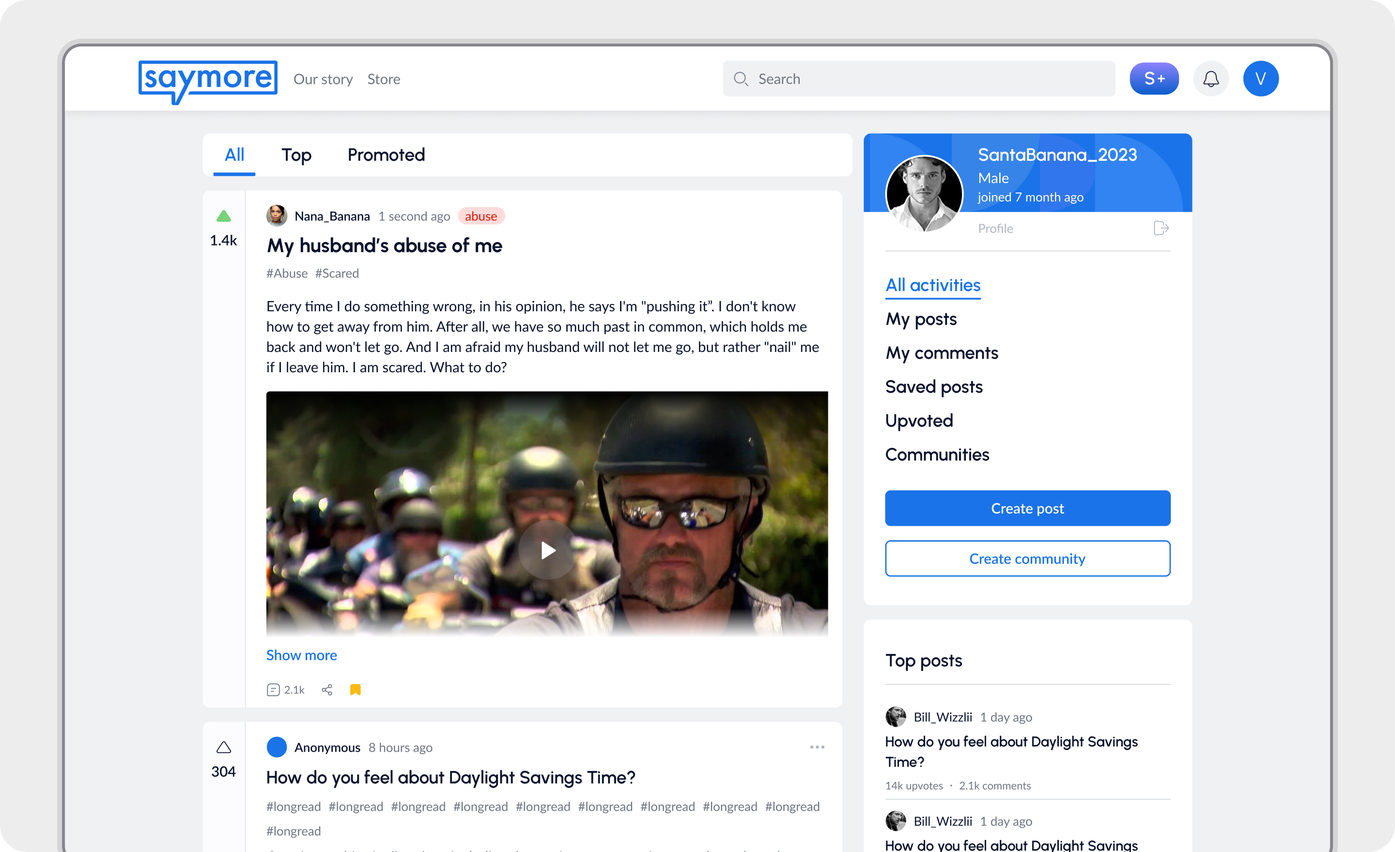
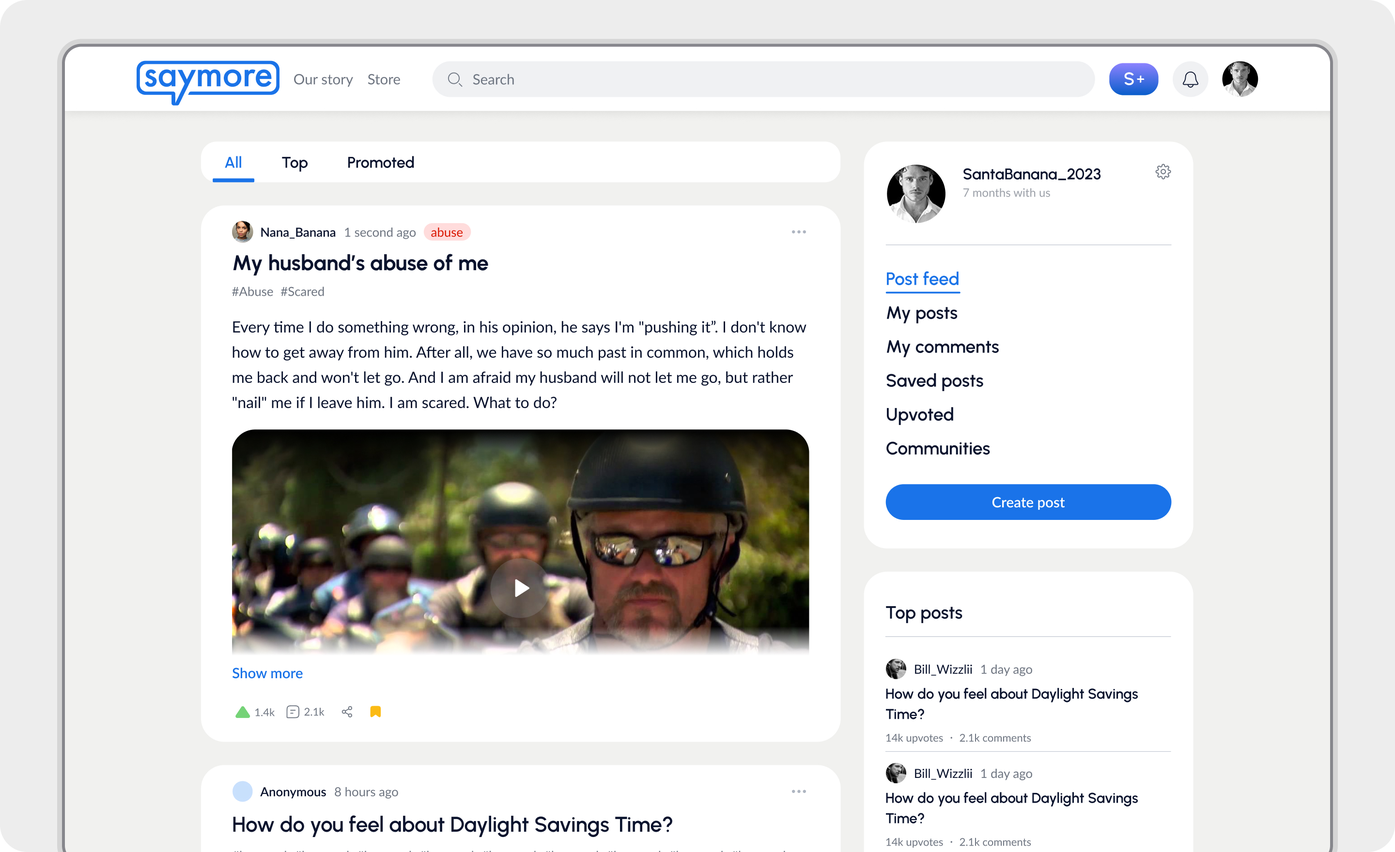
Move lang toggle to header, translate main page to Russian, add sliders for refs/moodboards

diff --git a/index.html b/index.html
@@ -22,6 +22,10 @@
       <svg id="iconSun" width="18" height="18" viewBox="0 0 24 24" fill="none" stroke="currentColor" stroke-width="1.8" stroke-linecap="round"><circle cx="12" cy="12" r="4"/><path d="M12 2v2M12 20v2M4.9 4.9l1.4 1.4M17.7 17.7l1.4 1.4M2 12h2M20 12h2M4.9 19.1l1.4-1.4M17.7 6.3l1.4-1.4"/></svg>
       <svg id="iconMoon" width="18" height="18" viewBox="0 0 24 24" fill="none" stroke="currentColor" stroke-width="1.8" stroke-linecap="round" style="display:none"><path d="M21 12.8A9 9 0 1 1 11.2 3 7 7 0 0 0 21 12.8z"/></svg>
     </button>
+    <div class="lang-toggle" id="langToggle">
+      <button data-lang="ru" class="on" aria-label="Русский">RU</button>
+      <button data-lang="en" aria-label="English">EN</button>
+    </div>
   </div>
 </header>
 
@@ -29,66 +33,68 @@
   <!-- HERO / HEADER (Figma: Header) -->
   <section class="narrow hero" id="about">
     <h2 class="hero-title">
-      Senior Product Designer
+      <span class="lru">Старший продуктовый дизайнер</span>
+      <span class="len">Senior Product Designer</span>
     </h2>
     <p class="hero-text">
-      Design scalable mobile and web interfaces for B2B and B2C clients. Use an AI-first approach in my work to test hypotheses and speed up product development.
+      <span class="lru">Проектирую масштабируемые мобильные и веб-интерфейсы для B2B и B2C. Использую AI-first подход для проверки гипотез и ускорения продуктовой разработки.</span>
+      <span class="len">I design scalable mobile and web interfaces for B2B and B2C clients. I use an AI-first approach in my work to test hypotheses and speed up product development.</span>
     </p>
     <div class="contact-block">
       <div class="contact-btns">
         <a class="contact-btn li" href="https://linkedin.com/in/violetta-morozova" target="_blank" rel="noopener">
           <svg width="16" height="16" viewBox="0 0 24 24" fill="currentColor" aria-hidden="true"><path d="M19.65 3H4.35C3.99196 3 3.64858 3.14223 3.39541 3.39541C3.14223 3.64858 3 3.99196 3 4.35V19.65C3 20.008 3.14223 20.3514 3.39541 20.6046C3.64858 20.8578 3.99196 21 4.35 21H19.65C20.008 21 20.3514 20.8578 20.6046 20.6046C20.8578 20.3514 21 20.008 21 19.65V4.35C21 3.99196 20.8578 3.64858 20.6046 3.39541C20.3514 3.14223 20.008 3 19.65 3ZM8.4 18.3H5.7V10.2H8.4V18.3ZM7.05 8.625C6.74056 8.61616 6.4406 8.51632 6.18758 8.33797C5.93456 8.15962 5.7397 7.91066 5.62737 7.6222C5.51503 7.33374 5.49019 7.01857 5.55595 6.71607C5.6217 6.41358 5.77515 6.13716 5.9971 5.92138C6.21906 5.70559 6.49968 5.55999 6.80391 5.50278C7.10814 5.44556 7.42248 5.47927 7.70766 5.59969C7.99284 5.7201 8.23622 5.92189 8.40737 6.17983C8.57853 6.43778 8.66987 6.74044 8.67 7.05C8.66289 7.47331 8.4885 7.8766 8.18495 8.17173C7.88139 8.46685 7.47335 8.62982 7.05 8.625ZM18.3 18.3H15.6V14.034C15.6 12.756 15.06 12.297 14.358 12.297C14.1522 12.3107 13.9511 12.3649 13.7663 12.4566C13.5815 12.5482 13.4166 12.6755 13.2811 12.831C13.1457 12.9866 13.0422 13.1674 12.9 13.971C12.8955 14.0129 12.8955 14.0551 12.9 14.097V18.3H10.2V10.2H12.81V11.37C13.0733 10.9695 13.435 10.6433 13.8605 10.4227C14.286 10.2021 14.761 10.0944 15.24 10.11C16.635 10.11 18.264 10.884 18.264 13.404L18.3 18.3Z"/></svg>
-          <span>LinkedIn</span>
+          <span><span class="lru">LinkedIn</span><span class="len">LinkedIn</span></span>
         </a>
         <a class="contact-btn" href="Senior_Product_Designer_Violetta_Morozova_Eng.pdf" download="Senior_Product_Designer_Violetta_Morozova_Eng.pdf">
           <svg width="16" height="16" viewBox="0 0 24 24" fill="none" stroke="currentColor" stroke-width="2" stroke-linecap="round" stroke-linejoin="round" aria-hidden="true"><path d="M21 15v4a2 2 0 0 1-2 2H5a2 2 0 0 1-2-2v-4"/><polyline points="7 10 12 15 17 10"/><line x1="12" x2="12" y1="15" y2="3"/></svg>
-          <span>Download CV</span>
+          <span><span class="lru">Скачать CV</span><span class="len">Download CV</span></span>
         </a>
       </div>
     </div>
   </section>
 
-  <!-- EXPERIENCE (Figma: Section) -->
+<!-- EXPERIENCE (Figma: Section) -->
   <section class="narrow cols experience">
-    <div class="label">Experience</div>
+    <div class="label"><span class="lru">Опыт</span><span class="len">Experience</span></div>
     <div class="rows">
       <a class="row" href="#work-bashnya">
-        <div class="row-main"><span class="row-title">Senior Product Designer / game &lt;Bashnya&gt;</span><span class="row-sub">Interface design, game UI, AI-assisted art pipelines</span></div>
+        <div class="row-main"><span class="row-title"><span class="lru">Старший продуктовый дизайнер / игра <Башня></span><span class="len">Senior Product Designer / game <Bashnya></span></span><span class="row-sub"><span class="lru">Дизайн интерфейсов, игровой UI, AI-ассистированные арт-пайплайны</span><span class="len">Interface design, game UI, AI-assisted art pipelines</span></span></div>
         <div class="row-meta"><span class="row-date">2026 — 2026</span><span class="badge" style="--b:#8b5cf6"><img src="logo-bashnya.svg" alt="Bashnya" onerror="this.remove()"></span></div>
       </a>
       <a class="row" href="#work-forrest">
-        <div class="row-main"><span class="row-title">Senior Product Designer / Forrest</span><span class="row-sub">ERP/CRM System for Restaurants</span></div>
+        <div class="row-main"><span class="row-title"><span class="lru">Старший продуктовый дизайнер / Forrest</span><span class="len">Senior Product Designer / Forrest</span></span><span class="row-sub"><span class="lru">ERP/CRM-система для ресторанов</span><span class="len">ERP/CRM System for Restaurants</span></span></div>
         <div class="row-meta"><span class="row-date">2025 — 2026</span><span class="badge" style="--b:#22c55e"><img src="logo-forrest.svg" alt="Forrest" onerror="this.remove()"></span></div>
       </a>
       <a class="row" href="#work-kant">
-        <div class="row-main"><span class="row-title">Senior Web Designer, Full-stack Developer / Kant</span><span class="row-sub">Educational website, UX/UI + frontend + custom CMS</span></div>
+        <div class="row-main"><span class="row-title"><span class="lru">Старший веб-дизайнер, Full-stack разработчик / Kant</span><span class="len">Senior Web Designer, Full-stack Developer / Kant</span></span><span class="row-sub"><span class="lru">Образовательный веб-сайт, UX/UI + фронтенд + собственная CMS</span><span class="len">Educational website, UX/UI + frontend + custom CMS</span></span></div>
         <div class="row-meta"><span class="row-date">2025 — 2026</span><span class="badge" style="--b:#FF5800"><img src="logo-kant.svg" alt="Kant" onerror="this.remove()"></span></div>
       </a>
       <a class="row" href="#work-gutstuff">
-        <div class="row-main"><span class="row-title">Senior Product Designer / JetRockets</span><span class="row-sub">The Gut Stuff (B2C) · SayMore (B2B2C) · MVPs from scratch</span></div>
+        <div class="row-main"><span class="row-title"><span class="lru">Старший продуктовый дизайнер / JetRockets</span><span class="len">Senior Product Designer / JetRockets</span></span><span class="row-sub"><span class="lru">The Gut Stuff (B2C) · SayMore (B2B2C) · MVP с нуля</span><span class="len">The Gut Stuff (B2C) · SayMore (B2B2C) · MVPs from scratch</span></span></div>
         <div class="row-meta"><span class="row-date">2021 — 2024</span><span class="badge" style="--b:#FCD547"><img src="logo-jetrockets.svg" alt="JetRockets" onerror="this.remove()"></span></div>
       </a>
       <a class="row" href="#work-oprosso">
-        <div class="row-main"><span class="row-title">Product Designer / Oprosso</span><span class="row-sub">SaaS platform for UX research</span></div>
+        <div class="row-main"><span class="row-title"><span class="lru">Продуктовый дизайнер / Oprosso</span><span class="len">Product Designer / Oprosso</span></span><span class="row-sub"><span class="lru">SaaS-платформа для UX-исследований</span><span class="len">SaaS platform for UX research</span></span></div>
         <div class="row-meta"><span class="row-date">2020 — 2021</span><span class="badge" style="--b:#7476f7"><img src="logo-oprosso.svg" alt="Oprosso" onerror="this.remove()"></span></div>
       </a>
       <div class="row">
-        <div class="row-main"><span class="row-title">Frontend Developer</span><span class="row-sub">Commercial interfaces, special project for 1tv.ru</span></div>
+        <div class="row-main"><span class="row-title"><span class="lru">Фронтенд-разработчик</span><span class="len">Frontend Developer</span></span><span class="row-sub"><span class="lru">Коммерческие интерфейсы, спецпроект для 1tv.ru</span><span class="len">Commercial interfaces, special project for 1tv.ru</span></span></div>
         <div class="row-meta"><span class="row-date">2014 — 2020</span><span class="badge" style="--b:#71717a"><img src="logo-code.svg" alt="Frontend" onerror="this.remove()"></span></div>
       </div>
     </div>
   </section>
 
-  <!-- SKILLS (Figma: skills block) -->
+<!-- SKILLS (Figma: skills block) -->
   <section class="narrow cols">
-    <div class="label">Skills</div>
+    <div class="label"><span class="lru">Навыки</span><span class="len">Skills</span></div>
     <div class="rows skills">
-      <div class="row"><div class="row-main"><span class="row-sub"><b>Product &amp; UX:</b> UX Research, User Flows, CJM, Design Systems, A/B Testing, Multi-role UX, Accessibility (WCAG)</span></div></div>
-      <div class="row"><div class="row-main"><span class="row-sub"><b>AI:</b> Cursor, Claude (Code &amp; Design), OpenCode, Figma Make, Google AI Studio</span></div></div>
-      <div class="row"><div class="row-main"><span class="row-sub"><b>Tools:</b> Figma, Miro, Notion, Asana, Adobe Creative Suite</span></div></div>
-      <div class="row"><div class="row-main"><span class="row-sub"><b>Leadership:</b> Team Management, Hiring &amp; Onboarding, Mentorship</span></div></div>
-      <div class="row"><div class="row-main"><span class="row-sub"><b>Frontend:</b> HTML5, CSS3, JavaScript, Git, responsive &amp; cross-browser layout</span></div></div>
-      <div class="row"><div class="row-main"><span class="row-sub"><b>Languages:</b> English (B1 — Intermediate), Russian (Native)</span></div></div>
+      <div class="row"><div class="row-main"><span class="row-sub"><b><span class="lru">Продукт и UX:</span><span class="len">Product & UX:</span></b> <span class="lru">UX-исследования, пользовательские сценарии, CJM, дизайн-системы, A/B-тестирование, многорольной UX, доступность (WCAG)</span><span class="len">UX Research, User Flows, CJM, Design Systems, A/B Testing, Multi-role UX, Accessibility (WCAG)</span></span></div></div>
+      <div class="row"><div class="row-main"><span class="row-sub"><b><span class="lru">AI:</span><span class="len">AI:</span></b> <span class="lru">Cursor, Claude (Code & Design), OpenCode, Figma Make, Google AI Studio</span><span class="len">Cursor, Claude (Code & Design), OpenCode, Figma Make, Google AI Studio</span></span></div></div>
+      <div class="row"><div class="row-main"><span class="row-sub"><b><span class="lru">Инструменты:</span><span class="len">Tools:</span></b> <span class="lru">Figma, Miro, Notion, Asana, Adobe Creative Suite</span><span class="len">Figma, Miro, Notion, Asana, Adobe Creative Suite</span></span></div></div>
+      <div class="row"><div class="row-main"><span class="row-sub"><b><span class="lru">Лидерство:</span><span class="len">Leadership:</span></b> <span class="lru">Управление командой, найм и онбординг, менторство</span><span class="len">Team Management, Hiring & Onboarding, Mentorship</span></span></div></div>
+      <div class="row"><div class="row-main"><span class="row-sub"><b><span class="lru">Фронтенд:</span><span class="len">Frontend:</span></b> <span class="lru">HTML5, CSS3, JavaScript, Git, адаптивная и кроссбраузерная верстка</span><span class="len">HTML5, CSS3, JavaScript, Git, responsive & cross-browser layout</span></span></div></div>
+      <div class="row"><div class="row-main"><span class="row-sub"><b><span class="lru">Языки:</span><span class="len">Languages:</span></b> <span class="lru">Английский (B1 — Intermediate), русский (родной)</span><span class="len">English (B1 — Intermediate), Russian (Native)</span></span></div></div>
     </div>
   </section>
 
@@ -99,10 +105,10 @@
         <img class="shot-img" src="work-bashnya.jpg" alt="Bashnya game UI" onerror="this.remove()">
         <div class="mock browser"><div class="mock-bar"><i></i><i></i><i></i></div><div class="mock-grid"><span></span><span></span><span class="accent"></span><span></span><span></span><span></span></div></div>
       </div>
-      <div class="caption">
+<div class="caption">
         <div class="caption-title">Bashnya</div>
-        <p class="caption-text">Game interface &amp; UI kit. Feature dev <span class="nowrap"><b>7 → 3 days</b></span>, design-to-dev <span class="nowrap"><b>5 → 2 days</b></span>. AI icon set &amp; character praised by the art director</p>
-        <a class="case-link" href="cases/bashnya.html">Read case study →</a>
+        <p class="caption-text"><span class="lru">Игровой интерфейс и UI-кит. Разработка фич <span class="nowrap"><b>7 → 3 дня</b></span>, дизайн-в-дев <span class="nowrap"><b>5 → 2 дня</b></span>. AI-набор иконок и персонаж, похвален арт-директором</span><span class="len">Game interface & UI kit. Feature dev <span class="nowrap"><b>7 → 3 days</b></span>, design-to-dev <span class="nowrap"><b>5 → 2 days</b></span>. AI icon set & character praised by the art director</span></p>
+        <a class="case-link" href="cases/bashnya.html"><span class="lru">Читать кейс →</span><span class="len">Read case study →</span></a>
       </div>
     </article>
 
@@ -113,8 +119,8 @@
       </div>
       <div class="caption">
         <div class="caption-title">Forrest</div>
-        <p class="caption-text">ERP/CRM for restaurants, 3 roles + Kanban + dining-room configurator. <span class="nowrap"><b>−28%</b> order</span> time, <span class="nowrap"><b>−25%</b> reservation</span> time, <span class="nowrap"><b>−37%</b> conflicts</span>. Migrated MUI → custom Mantis system</p>
-        <a class="case-link" href="cases/forrest.html">Read case study →</a>
+        <p class="caption-text"><span class="lru">ERP/CRM для ресторанов, 3 роли + Канбан + конструктор зала. <span class="nowrap"><b>−28%</b> время заказа</span>, <span class="nowrap"><b>−25%</b> время бронирования</span>, <span class="nowrap"><b>−37%</b> конфликтов</span>. Миграция MUI → кастомная Mantis</span><span class="len">ERP/CRM for restaurants, 3 roles + Kanban + dining-room configurator. <span class="nowrap"><b>−28%</b> order</span> time, <span class="nowrap"><b>−25%</b> reservation</span> time, <span class="nowrap"><b>−37%</b> conflicts</span>. Migrated MUI → custom Mantis system</span></p>
+        <a class="case-link" href="cases/forrest.html"><span class="lru">Читать кейс →</span><span class="len">Read case study →</span></a>
       </div>
     </article>
 
@@ -125,7 +131,7 @@
       </div>
       <div class="caption">
         <div class="caption-title">Kant</div>
-        <p class="caption-text">Solo end-to-end: UX/UI, frontend and custom CMS. AI-assisted build in Cursor (generate → refactor → debug). No handoff step</p>
+        <p class="caption-text"><span class="lru">Соло энд-ту-энд: UX/UI, фронтенд и своя CMS. AI-ассистированная разработка в Cursor (генерация → рефакторинг → дебаг). Без этапа хэндоффа</span><span class="len">Solo end-to-end: UX/UI, frontend and custom CMS. AI-assisted build in Cursor (generate → refactor → debug). No handoff step</span></p>
       </div>
     </article>
 
@@ -136,8 +142,8 @@
       </div>
       <div class="caption">
         <div class="caption-title">The Gut Stuff</div>
-        <p class="caption-text">B2C MVP from scratch (trackers, reports, gamification) + redesign after testing. <span class="nowrap"><b>10K+ downloads</b></span>, launched in <span class="nowrap"><b>6 months</b></span>, <span class="nowrap">100% scope</span></p>
-        <a class="case-link" href="cases/gutstuff.html">Read case study →</a>
+        <p class="caption-text"><span class="lru">B2C MVP с нуля (трекеры, отчёты, геймификация) + редизайн после тестов. <span class="nowrap"><b>10K+ загрузок</b></span>, запуск за <span class="nowrap"><b>6 месяцев</b></span>, <span class="nowrap">100% скоуп</span></span><span class="len">B2C MVP from scratch (trackers, reports, gamification) + redesign after testing. <span class="nowrap"><b>10K+ downloads</b></span>, launched in <span class="nowrap"><b>6 months</b></span>, <span class="nowrap">100% scope</span></span></p>
+        <a class="case-link" href="cases/gutstuff.html"><span class="lru">Читать кейс →</span><span class="len">Read case study →</span></a>
       </div>
     </article>
 
@@ -148,8 +154,8 @@
       </div>
       <div class="caption">
         <div class="caption-title">SayMore</div>
-        <p class="caption-text">B2B2C social platform, desktop MVP designed solo in <span class="nowrap"><b>3 weeks</b></span>. Scalable design system, <span class="nowrap"><b>1000+ responsive screens</b></span></p>
-        <a class="case-link" href="cases/saymore.html">Read case study →</a>
+        <p class="caption-text"><span class="lru">B2B2C социальная платформа, десктопный MVP в одиночку за <span class="nowrap"><b>3 недели</b></span>. Масштабируемая дизайн-система, <span class="nowrap"><b>1000+ адаптивных экранов</b></span></span><span class="len">B2B2C social platform, desktop MVP designed solo in <span class="nowrap"><b>3 weeks</b></span>. Scalable design system, <span class="nowrap"><b>1000+ responsive screens</b></span></span></p>
+        <a class="case-link" href="cases/saymore.html"><span class="lru">Читать кейс →</span><span class="len">Read case study →</span></a>
       </div>
     </article>
 
@@ -158,9 +164,10 @@
         <img class="shot-img" src="work-oprosso.jpg" alt="Oprosso dashboard" onerror="this.remove()">
         <div class="mock browser"><div class="mock-bar"><i></i><i></i><i></i></div><div class="mock-table"><span></span><span></span><span></span><span></span><span></span><span></span></div></div>
       </div>
-      <div class="caption">
+<div class="caption">
         <div class="caption-title">Oprosso</div>
-        <p class="caption-text">B2B dashboards for 3 roles, interactive Figma prototypes, Scrum trio. <span class="nowrap"><b>−18%</b> report</span> time, <span class="nowrap"><b>−12%</b> setup</span> errors, <span class="nowrap"><b>−15%</b> support</span> tickets</p>
+        <p class="caption-text"><span class="lru">B2B-дашборды для 3 ролей, интерактивные прототипы в Figma, скрам-трио. <span class="nowrap"><b>−18%</b> время отчётов</span>, <span class="nowrap"><b>−12%</b> ошибки настройки</span>, <span class="nowrap"><b>−15%</b> тикетов в поддержку</span></span><span class="len">B2B dashboards for 3 roles, interactive Figma prototypes, Scrum trio. <span class="nowrap"><b>−18%</b> report</span> time, <span class="nowrap"><b>−12%</b> setup</span> errors, <span class="nowrap"><b>−15%</b> support</span> tickets</span></p>
+        <a class="case-link" href="cases/oprosso.html"><span class="lru">Читать кейс →</span><span class="len">Read case study →</span></a>
       </div>
     </article>
     
@@ -170,8 +177,8 @@
         <div class="mock browser"><div class="mock-bar"><i></i><i></i><i></i></div><div class="mock-hero"><span></span></div><div class="mock-grid"><span></span><span></span><span></span></div></div></div>
       <div class="caption">
         <div class="caption-title">Trinoray</div>
-        <p class="caption-text">UX Research and Search Interface Redesign. Optimizing the logic helped the project secure a <span class="nowrap"><b>round of funding</b></span></p>
-        <a class="case-link" href="cases/trinoray.html">Read case study →</a>
+        <p class="caption-text"><span class="lru">UX-исследования и редизайн поискового интерфейса. Оптимизация логики помогла проекту получить <span class="nowrap"><b>раунд инвестиций</b></span></span><span class="len">UX Research and Search Interface Redesign. Optimizing the logic helped the project secure a <span class="nowrap"><b>round of funding</b></span></span></p>
+        <a class="case-link" href="cases/trinoray.html"><span class="lru">Читать кейс →</span><span class="len">Read case study →</span></a>
       </div>
     </article>
     
@@ -181,15 +188,15 @@
         <div class="mock browser"><div class="mock-bar"><i></i><i></i><i></i></div><div class="mock-hero"><span></span></div><div class="mock-grid"><span></span><span></span><span></span></div></div></div>
       <div class="caption">
         <div class="caption-title">Taromant</div>
-        <p class="caption-text">AI Tarot Reader (Telegram bot), soft monetization via the Wheel of Fortune. <span class="nowrap"><b>42%</b> D1 retention</span>, <span class="nowrap"><b>3.8%</b> conversion</span> rate for spin package purchases</p>
-        <a class="case-link" href="cases/taromant.html">Read case study →</a>
+        <p class="caption-text"><span class="lru">AI-таро в Telegram-боте, soft-монетизация через Колесо фортуны. <span class="nowrap"><b>42%</b> D1 retention</span>, <span class="nowrap"><b>3.8%</b> конверсия в покупку пакета спинов</span></span><span class="len">AI Tarot Reader (Telegram bot), soft monetization via the Wheel of Fortune. <span class="nowrap"><b>42%</b> D1 retention</span>, <span class="nowrap"><b>3.8%</b> conversion</span> rate for spin package purchases</span></p>
+        <a class="case-link" href="cases/taromant.html"><span class="lru">Читать кейс →</span><span class="len">Read case study →</span></a>
       </div>
     </article>
   </section>
 
   <!-- FOOTER (Figma: Footer) -->
   <footer class="narrow footer">
-    <span class="made">Made by Violetta ♥</span>
+    <span class="made"><span class="lru">Сделано Violetta ♥</span><span class="len">Made by Violetta ♥</span></span>
     <span class="foot-icons">
       <a class="icon-btn li" href="https://linkedin.com/in/violetta-morozova" target="_blank" rel="noopener" aria-label="LinkedIn">
         <svg width="15" height="15" viewBox="0 0 24 24" fill="currentColor" aria-hidden="true"><path d="M19.65 3H4.35C3.99196 3 3.64858 3.14223 3.39541 3.39541C3.14223 3.64858 3 3.99196 3 4.35V19.65C3 20.008 3.14223 20.3514 3.39541 20.6046C3.64858 20.8578 3.99196 21 4.35 21H19.65C20.008 21 20.3514 20.8578 20.6046 20.6046C20.8578 20.3514 21 20.008 21 19.65V4.35C21 3.99196 20.8578 3.64858 20.6046 3.39541C20.3514 3.14223 20.008 3 19.65 3ZM8.4 18.3H5.7V10.2H8.4V18.3ZM7.05 8.625C6.74056 8.61616 6.4406 8.51632 6.18758 8.33797C5.93456 8.15962 5.7397 7.91066 5.62737 7.6222C5.51503 7.33374 5.49019 7.01857 5.55595 6.71607C5.6217 6.41358 5.77515 6.13716 5.9971 5.92138C6.21906 5.70559 6.49968 5.55999 6.80391 5.50278C7.10814 5.44556 7.42248 5.47927 7.70766 5.59969C7.99284 5.7201 8.23622 5.92189 8.40737 6.17983C8.57853 6.43778 8.66987 6.74044 8.67 7.05C8.66289 7.47331 8.4885 7.8766 8.18495 8.17173C7.88139 8.46685 7.47335 8.62982 7.05 8.625ZM18.3 18.3H15.6V14.034C15.6 12.756 15.06 12.297 14.358 12.297C14.1522 12.3107 13.9511 12.3649 13.7663 12.4566C13.5815 12.5482 13.4166 12.6755 13.2811 12.831C13.1457 12.9866 13.0422 13.1674 12.9 13.971C12.8955 14.0129 12.8955 14.0551 12.9 14.097V18.3H10.2V10.2H12.81V11.37C13.0733 10.9695 13.435 10.6433 13.8605 10.4227C14.286 10.2021 14.761 10.0944 15.24 10.11C16.635 10.11 18.264 10.884 18.264 13.404L18.3 18.3Z"/></svg>
@@ -198,7 +205,7 @@
         <svg width="15" height="15" viewBox="0 0 24 24" fill="none" stroke="currentColor" stroke-width="2" stroke-linecap="round" stroke-linejoin="round" aria-hidden="true"><rect width="20" height="16" x="2" y="4" rx="2"/><path d="m22 7-8.97 5.7a1.94 1.94 0 0 1-2.06 0L2 7"/></svg>
       </a>
     </span>
-    <a href="#top" class="to-top" id="toTop"><span>Top up</span><svg width="14" height="14" viewBox="0 0 24 24" fill="none" stroke="currentColor" stroke-width="2.5" stroke-linecap="round" stroke-linejoin="round" aria-hidden="true"><path d="M12 19V5M5 12l7-7 7 7"/></svg></a>
+    <a href="#top" class="to-top" id="toTop"><span><span class="lru">Наверх</span><span class="len">Top up</span></span><svg width="14" height="14" viewBox="0 0 24 24" fill="none" stroke="currentColor" stroke-width="2.5" stroke-linecap="round" stroke-linejoin="round" aria-hidden="true"><path d="M12 19V5M5 12l7-7 7 7"/></svg></a>
   </footer>
 </main>
   <div class="floating-dock">

diff --git a/styles.css b/styles.css
@@ -117,6 +117,9 @@ a.row:hover .row-title{text-decoration:underline;text-underline-offset:3px}
 .lang-toggle{display:inline-flex;border:1px solid var(--line);border-radius:999px;padding:3px;gap:2px;flex-shrink:0}
 .lang-toggle button{background:none;border:none;font-family:var(--mono);font-size:13px;color:var(--muted);padding:4px 12px;border-radius:999px;cursor:pointer}
 .lang-toggle button.on{background:var(--text);color:var(--bg)}
+
+/* Header language toggle */
+.topbar-inner .lang-toggle{margin-left:12px}
 .case h2{font-size:24px;font-weight:600;margin:48px 0 16px;letter-spacing:-.01em}
 .case h3{font-size:19px;font-weight:600;margin:32px 0 12px}
 .case h4{font-size:16px;font-weight:600;margin:24px 0 8px}

diff --git a/script.js b/script.js
@@ -172,7 +172,7 @@
   });
 })();
 
-// RU/EN language toggle for case pages
+// RU/EN language toggle (header on main page, case header on case pages)
 (function () {
   var t = document.getElementById('langToggle');
   if (!t) return;
